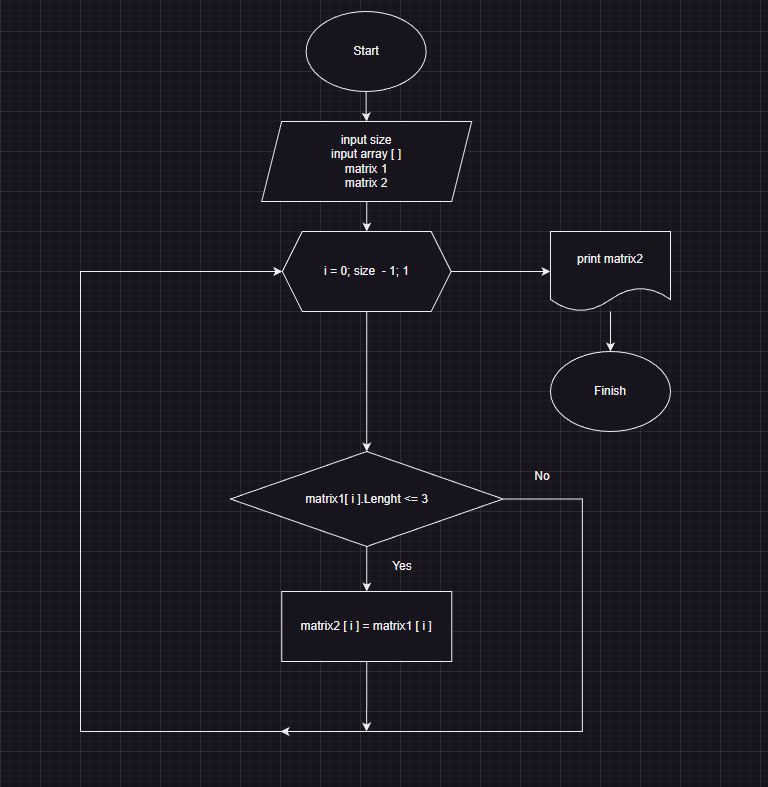
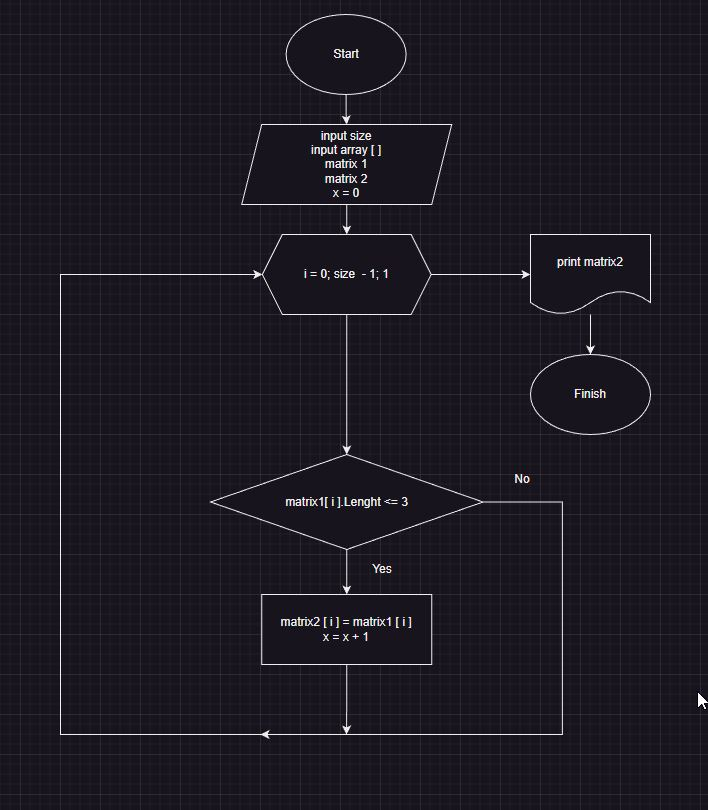
исправлены ошибки варианта 2

diff --git a/My_control_work/Program.cs b/My_control_work/Program.cs
@@ -65,13 +65,18 @@ string[] RemoveVowelLetters(string[] matrix1)
 
 string[] ChangeMatrix(string[] matrix1)
 {
+    
     string[] matrix2 = new string[matrix1.Length];
+    int x = 0;
     for (int i = 0; i < matrix1.Length; i++)
     {
         if(matrix1[i].Length <= 3)
         {
-            matrix2[i] = matrix1[i];
+            matrix2[x] = matrix1[i];
+            // Console.Write($"{matrix2[x]} "); 
+            x++;
         }
+        
     }
     return matrix2;
 }
@@ -83,10 +88,10 @@ Console.Write($"[{string.Join(", ", myArray1)}]");
 Console.WriteLine();
 string[] myArray2 = RemoveVowelLetters(myArray1); 
 Console.WriteLine("Полученный массив при первой трактовке задачи, когда необходимо уменьшить строки:");
-Console.Write($"[{string.Join(", ", myArray2)}]");
-Console.WriteLine();
-string[] myArray2_2 = ChangeMatrix(myArray1); 
+Console.Write($"{string.Join(" ", myArray2)}");
 Console.WriteLine();
 Console.WriteLine("Полученный массив при трактовке задачи, когда нужно вывести строки из массива 1, которые меньше или равны трем символам:");
-Console.Write($"[{string.Join( " ", myArray2_2)}]");
-Console.WriteLine();
+string[] myArray2_2 = ChangeMatrix(myArray1); 
+Console.Write($"{string.Join(" ", myArray2_2)}");
+
+

diff --git a/My_control_work/readme.md b/My_control_work/readme.md
@@ -6,7 +6,7 @@
 * Каждый взятый элемент переводится в строку;
 * Каждый элемент сверяется на наличие предзаписанного списка переменных (букв и цифр) и перезаписывает строку;
 * Перезаписанная строка записывается в элемент массива 2;
-* Новый массив выводится с помощью маски.
+* Вывод нового массива.
 
 # Блок-схема
 
@@ -19,7 +19,8 @@
 * С помощью встроенного условия if проверяется соответствие длинны элемента;
 * Каждый взятый элемент проверяется на условие по длине <= 3;
 * Если элемент соответствует условию, то происходит присваивание данного элемента новому массиву matrix2;
-* Новый массив выводится с помощью маски.
+* Добавлен счетчик для условия If - х, который также применяется в роли индекса элементов для matrix2;
+* Вывод нового массива.
 
 # Блок-схема
 
